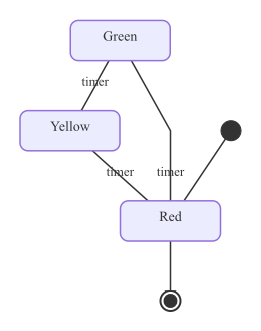
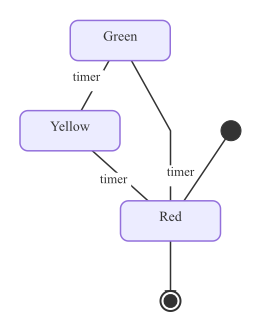
state: separate cyclic transition labels + white backdrop (#63)
* state: separate cyclic transition labels + white backdrop

The traffic-light example (a 3-state cycle with all transitions
labeled "timer") rendered with three labels converging at the
layout-emitted midpoint of its polylines — effectively illegible.

Two fixes, both scoped to the state renderer:

- Shift each label perpendicular to the edge tangent at the middle
  segment. A fixed +90° CCW offset keeps placement deterministic
  and spreads labels whose edges go in different directions —
  exactly the cyclic-cluster case. Straight-edge diagrams pick up a
  small (10px) offset to the side; the overall layout stays
  compact, labels no longer bisect their own edges.
- Add a white backdrop rect behind each label, same pattern
  flowchart already uses. Makes labels readable when they overlap
  unrelated edges crossing the region.

Regenerates examples/state/{simple,traffic_light}.{svg,png}. Visual
on traffic_light: three "timer" labels now sit beside their own
edges (Green→Yellow upper-left, Red→Green center-right,
Yellow→Red lower-left) instead of a single cluster.

* state: /simplify+/pr-review fixes — tests, ruler, comment

Apply review feedback on #63:

- Add TestLabelPosition table-driven (4 cardinal-direction edges
  plus degenerate cases covering the len<2 and zero-length guards).
  Pins the CW-in-SVG offset convention.
- Add TestLabelPositionAntiParallelEdgesSeparate pinning the cyclic-
  separation property the fix actually targets.
[…]

Changed region(s): [[0.3985, 0.5136, 0.5211, 0.574], [0.2759, 0.2115, 0.4291, 0.2719], [0.5824, 0.4834, 0.7356, 0.574]]

diff --git a/pkg/renderer/state/renderer_test.go b/pkg/renderer/state/renderer_test.go
@@ -3,10 +3,12 @@ package state
 import (
 	"bytes"
 	"encoding/xml"
+	"math"
 	"strings"
 	"testing"
 
 	"github.com/julianshen/mmgo/pkg/diagram"
+	"github.com/julianshen/mmgo/pkg/layout"
 )
 
 func TestRenderNilDiagram(t *testing.T) {
@@ -158,5 +160,76 @@ func assertValidSVG(t *testing.T, svgBytes []byte) {
 	}
 	if doc.ViewBox == "" {
 		t.Error("viewBox missing")
+	}
+}
+
+func TestLabelPosition(t *testing.T) {
+	// A horizontal edge going +X produces perpendicular offset +Y;
+	// vertical -Y edge offsets -X; and so on. Base point is the
+	// midpoint supplied by the layout phase. The offset side is
+	// fixed (CW in SVG Y-down), so anti-parallel edges land on
+	// opposite sides — the property that separates cyclic labels.
+	const off = 10.0
+	cases := []struct {
+		name   string
+		pts    []layout.Point
+		base   layout.Point
+		wantX  float64
+		wantY  float64
+	}{
+		{"too few points", []layout.Point{{X: 1, Y: 1}}, layout.Point{X: 5, Y: 5}, 5, 5},
+		{"zero-length segment", []layout.Point{{X: 2, Y: 2}, {X: 2, Y: 2}}, layout.Point{X: 5, Y: 5}, 5, 5},
+		{"east edge", []layout.Point{{X: 0, Y: 0}, {X: 10, Y: 0}}, layout.Point{X: 5, Y: 0}, 5, off},
+		{"west edge", []layout.Point{{X: 10, Y: 0}, {X: 0, Y: 0}}, layout.Point{X: 5, Y: 0}, 5, -off},
+		{"south edge", []layout.Point{{X: 0, Y: 0}, {X: 0, Y: 10}}, layout.Point{X: 0, Y: 5}, -off, 5},
+		{"north edge", []layout.Point{{X: 0, Y: 10}, {X: 0, Y: 0}}, layout.Point{X: 0, Y: 5}, off, 5},
+	}
+	for _, tc := range cases {
+		t.Run(tc.name, func(t *testing.T) {
+			got := labelPosition(tc.pts, tc.base)
+			if math.Abs(got.X-tc.wantX) > 1e-9 || math.Abs(got.Y-tc.wantY) > 1e-9 {
+				t.Errorf("labelPosition(%v, %v) = (%v, %v), want (%v, %v)",
+					tc.pts, tc.base, got.X, got.Y, tc.wantX, tc.wantY)
+			}
+		})
+	}
+}
+
+// Pins the cyclic-separation property: anti-parallel edges produce
+// labels on opposite sides of their shared midpoint.
+func TestLabelPositionAntiParallelEdgesSeparate(t *testing.T) {
+	base := layout.Point{X: 50, Y: 50}
+	fwd := labelPosition([]layout.Point{{X: 0, Y: 50}, {X: 100, Y: 50}}, base)
+	rev := labelPosition([]layout.Point{{X: 100, Y: 50}, {X: 0, Y: 50}}, base)
+	if fwd.Y == rev.Y || (fwd.Y > base.Y) == (rev.Y > base.Y) {
+		t.Errorf("anti-parallel edges expected to offset to opposite sides, got fwd=%v rev=%v", fwd, rev)
+	}
+}
+
+// Pins backdrop ordering: the white rect must precede the text so
+// the text paints on top.
+func TestRenderEdgeLabelBackdropPrecedesText(t *testing.T) {
+	d := &diagram.StateDiagram{
+		States: []diagram.StateDef{
+			{ID: "A", Label: "A"},
+			{ID: "B", Label: "B"},
+		},
+		Transitions: []diagram.StateTransition{
+			{From: "A", To: "B", Label: "go"},
+		},
+	}
+	out, err := Render(d, nil)
+	if err != nil {
+		t.Fatalf("Render: %v", err)
+	}
+	raw := string(out)
+	rectWhite := strings.Index(raw, `fill:white;stroke:none`)
+	// Find the specific "go" label text. rectWhite must come before.
+	textGo := strings.Index(raw, ">go<")
+	if rectWhite < 0 || textGo < 0 {
+		t.Fatalf("expected both white backdrop and label text, got rect=%d text=%d", rectWhite, textGo)
+	}
+	if rectWhite > textGo {
+		t.Errorf("white rect at %d should precede label text at %d", rectWhite, textGo)
 	}
 }

diff --git a/pkg/renderer/state/renderer.go b/pkg/renderer/state/renderer.go
@@ -83,7 +83,7 @@ func Render(d *diagram.StateDiagram, opts *Options) ([]byte, error) {
 		Style: "fill:#fff;stroke:none",
 	})
 
-	children = append(children, renderEdges(d, l, pad, fontSize)...)
+	children = append(children, renderEdges(d, l, pad, fontSize, ruler)...)
 	children = append(children, renderNodes(allStates, l, pad, fontSize)...)
 
 	svg := svgDoc{
@@ -210,7 +210,7 @@ func renderNodes(states []diagram.StateDef, l *layout.Result, pad, fontSize floa
 	return elems
 }
 
-func renderEdges(d *diagram.StateDiagram, l *layout.Result, pad, fontSize float64) []any {
+func renderEdges(d *diagram.StateDiagram, l *layout.Result, pad, fontSize float64, ruler *textmeasure.Ruler) []any {
 	edgeKeys := make([]graph.EdgeID, 0, len(l.Edges))
 	for eid := range l.Edges {
 		edgeKeys = append(edgeKeys, eid)
@@ -272,10 +272,19 @@ func renderEdges(d *diagram.StateDiagram, l *layout.Result, pad, fontSize float6
 			t := candidates[0]
 			transMap[key] = candidates[1:]
 			if t.Label != "" {
-				lx := el.LabelPos.X + pad
-				ly := el.LabelPos.Y + pad
+				base := layout.Point{X: el.LabelPos.X + pad, Y: el.LabelPos.Y + pad}
+				p := labelPosition(pts, base)
+				labelW, labelH := ruler.Measure(t.Label, fontSize-1)
+				const labelPad = 3.0
+				elems = append(elems, &rect{
+					X:      svgFloat(p.X - labelW/2 - labelPad),
+					Y:      svgFloat(p.Y - labelH/2 - labelPad),
+					Width:  svgFloat(labelW + 2*labelPad),
+					Height: svgFloat(labelH + 2*labelPad),
+					Style:  "fill:white;stroke:none",
+				})
 				elems = append(elems, &text{
-					X: svgFloat(lx), Y: svgFloat(ly),
+					X: svgFloat(p.X), Y: svgFloat(p.Y),
 					Anchor: "middle", Dominant: "central",
 					Style:   fmt.Sprintf("fill:#333;font-size:%.0fpx", fontSize-1),
 					Content: t.Label,
@@ -284,6 +293,31 @@ func renderEdges(d *diagram.StateDiagram, l *layout.Result, pad, fontSize float6
 		}
 	}
 	return elems
+}
+
+// labelPosition nudges the layout-emitted label point to the side of
+// the edge so labels on nearby edges don't pile on the same midpoint.
+// The offset is always on the same side relative to the edge tangent
+// (clockwise 90° in SVG's Y-down coordinates), so anti-parallel edges
+// land on opposite sides and naturally separate — the cyclic-cluster
+// case this targets. Co-directional parallel edges still collide and
+// would need edge-index alternation to fully resolve.
+func labelPosition(pts []layout.Point, base layout.Point) layout.Point {
+	if len(pts) < 2 {
+		return base
+	}
+	mid := len(pts) / 2 // guaranteed ≥ 1 since len(pts) ≥ 2
+	dx := pts[mid].X - pts[mid-1].X
+	dy := pts[mid].Y - pts[mid-1].Y
+	length := math.Sqrt(dx*dx + dy*dy)
+	if length == 0 {
+		return base
+	}
+	const perpOffset = 10.0
+	return layout.Point{
+		X: base.X - dy/length*perpOffset,
+		Y: base.Y + dx/length*perpOffset,
+	}
 }
 
 func isPseudoNode(id string) bool {
